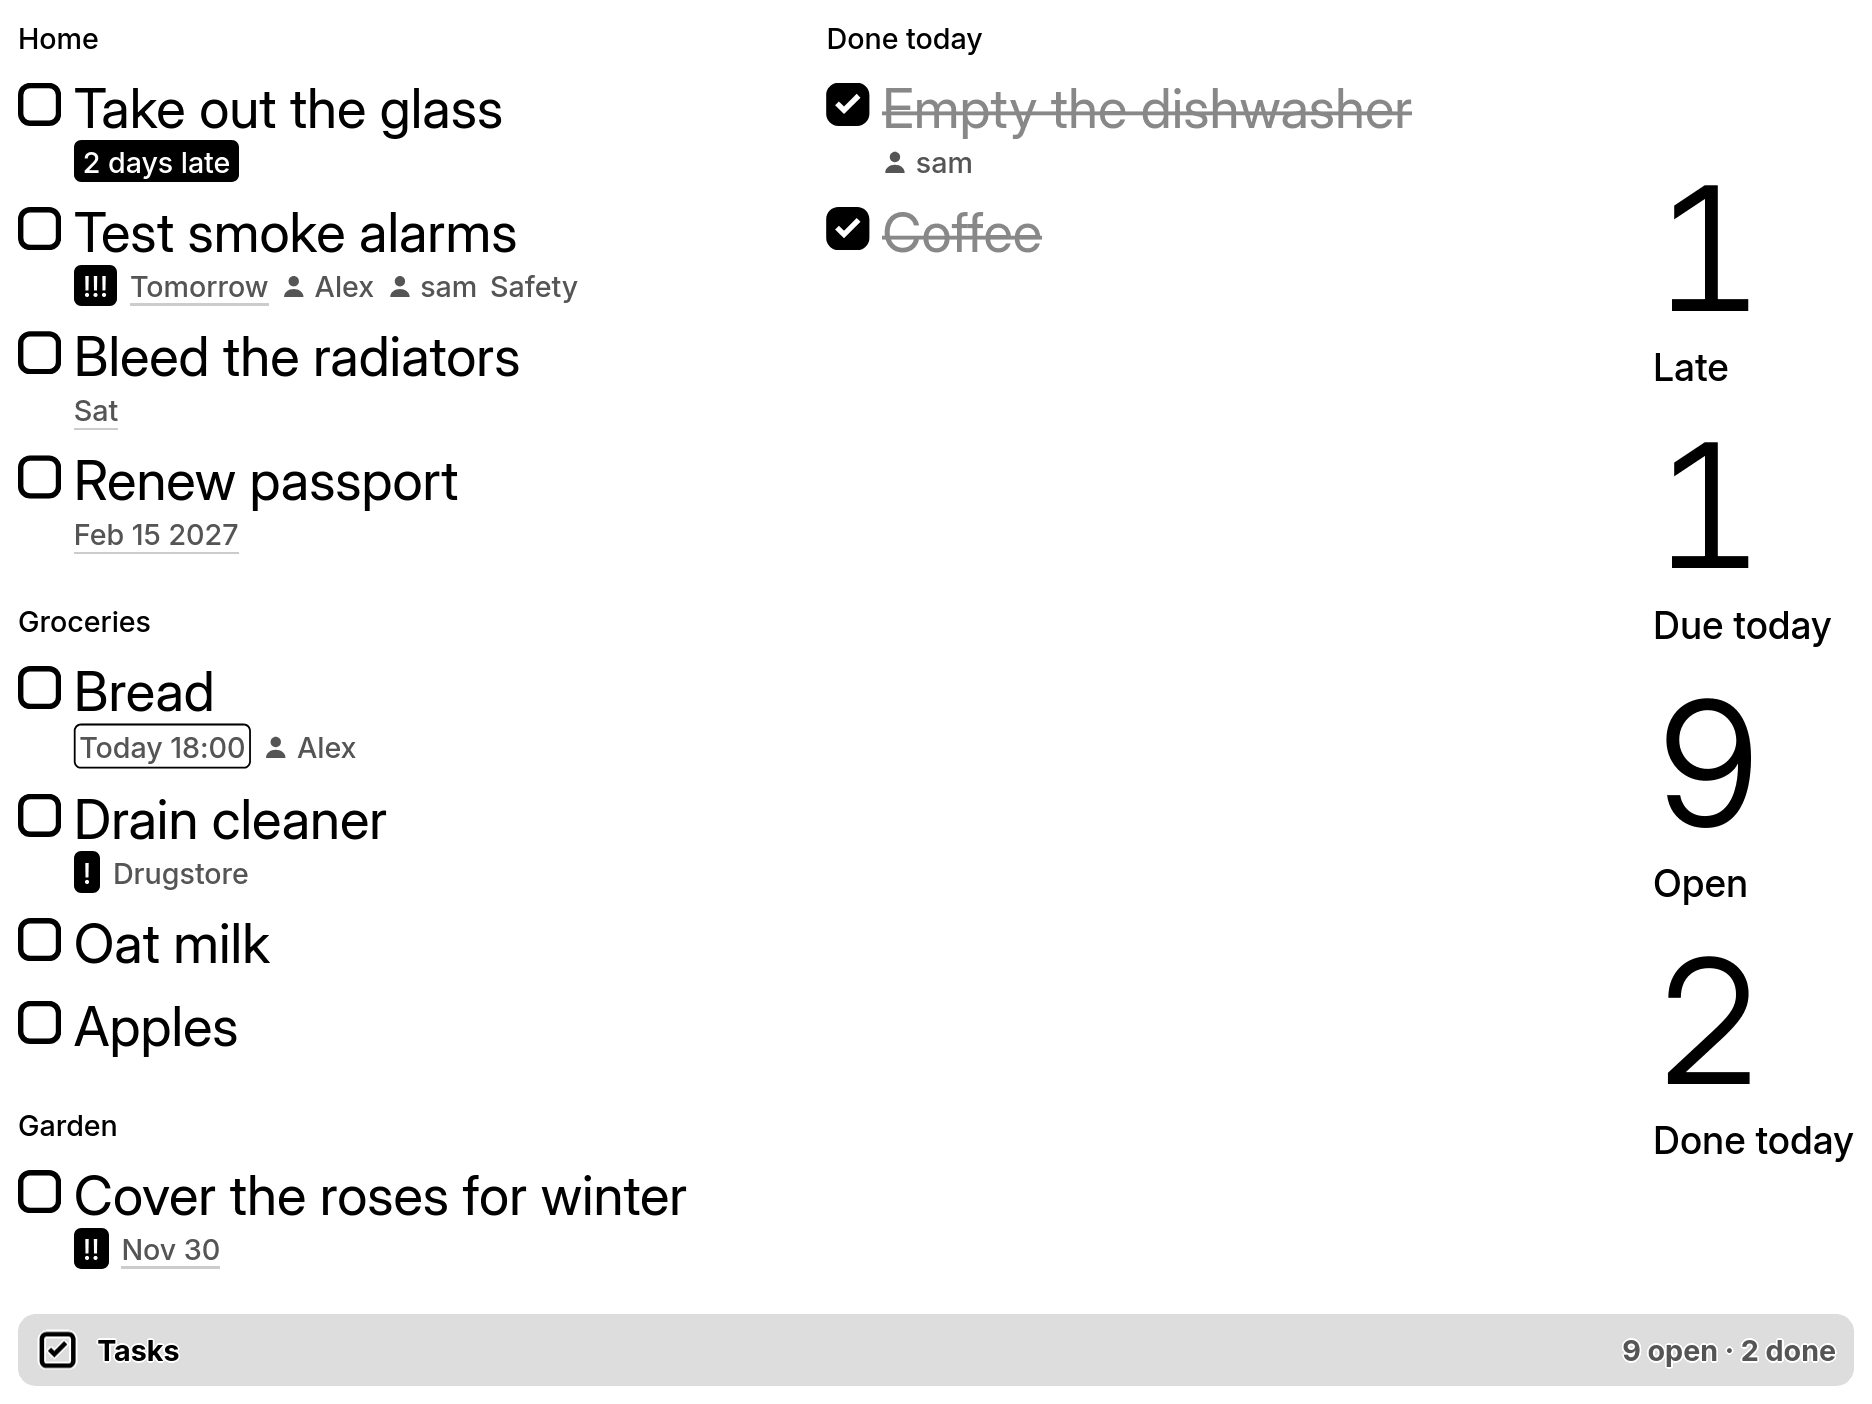
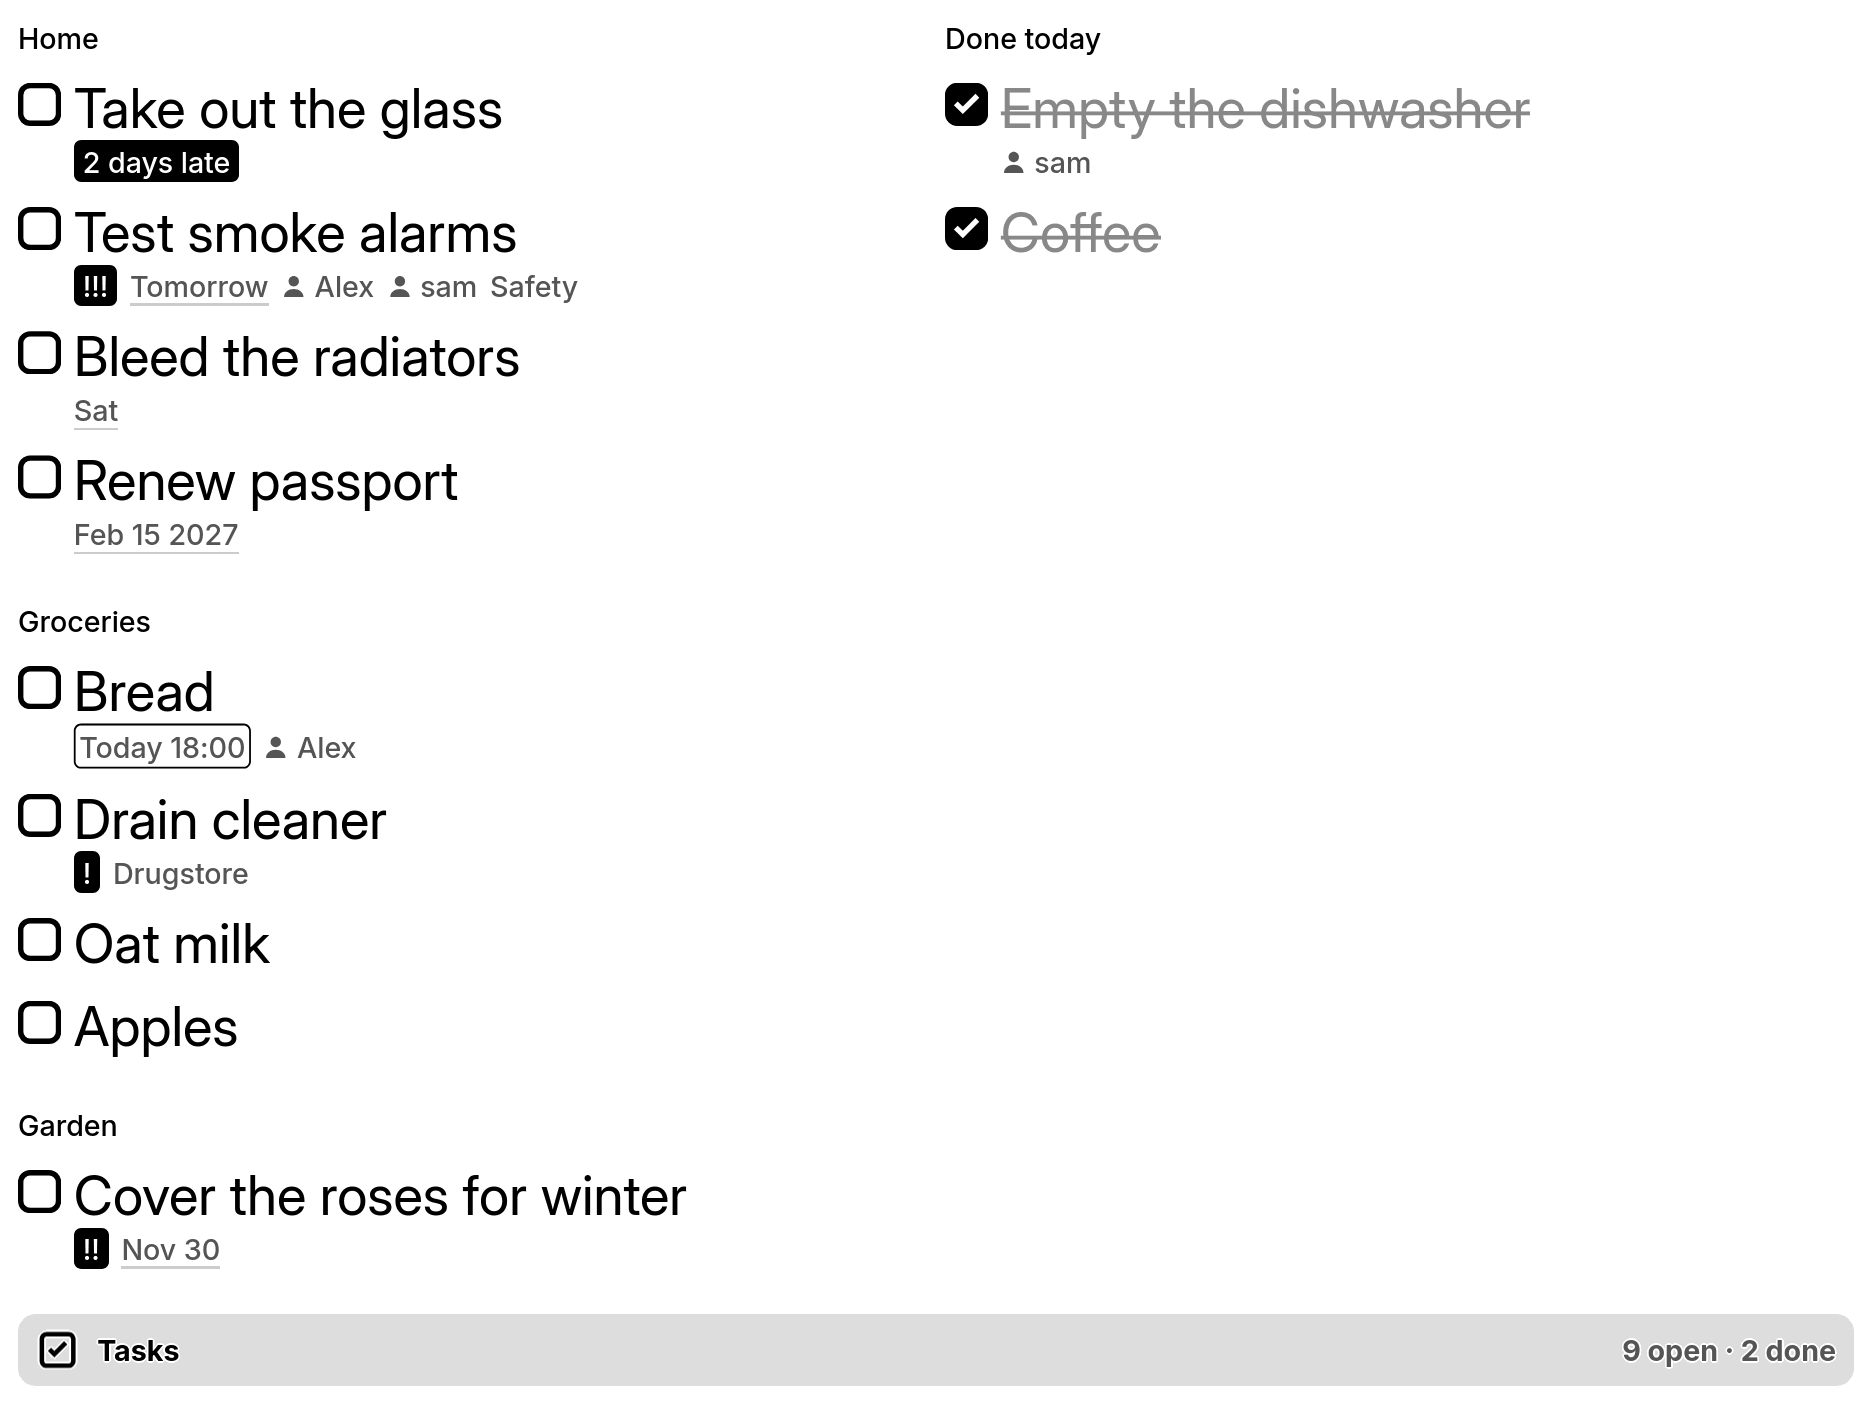
TRMNL X full: list across two columns instead of the counts

diff --git a/src/transform.py b/src/transform.py
@@ -19,7 +19,7 @@ WORDS = {
         "today": "Heute", "tomorrow": "Morgen", "yesterday": "Gestern", "overdue": "seit {n} Tagen",
         "weekdays": ["Mo", "Di", "Mi", "Do", "Fr", "Sa", "So"],
         "months": ["Jan.", "Feb.", "März", "Apr.", "Mai", "Juni", "Juli", "Aug.", "Sep.", "Okt.", "Nov.", "Dez."],
-        "done_group": "Heute erledigt", "late": "Überfällig", "due_today": "Heute fällig", "open": "Offen",
+        "done_group": "Heute erledigt",
         "done_title": "Alles erledigt", "done_text": "Keine offenen Aufgaben.",
         "focus_text": "Nichts fällig bis morgen.",
         "auth_title": "Token abgelehnt", "auth_text": "Vikunja hat das API-Token nicht angenommen. Token und Rechte (Tasks, Projects lesen) prüfen.",
@@ -42,7 +42,7 @@ WORDS = {
         "today": "Today", "tomorrow": "Tomorrow", "yesterday": "Yesterday", "overdue": "{n} days late",
         "weekdays": ["Mon", "Tue", "Wed", "Thu", "Fri", "Sat", "Sun"],
         "months": ["Jan", "Feb", "Mar", "Apr", "May", "Jun", "Jul", "Aug", "Sep", "Oct", "Nov", "Dec"],
-        "done_group": "Done today", "late": "Late", "due_today": "Due today", "open": "Open",
+        "done_group": "Done today",
         "done_title": "All done", "done_text": "No open tasks.",
         "focus_text": "Nothing due by tomorrow.",
         "auth_title": "Token rejected", "auth_text": "Vikunja did not accept the API token. Check the token and its rights (read Tasks and Projects).",
@@ -152,7 +152,7 @@ def rows(payload):
 
 def message(state, title, text, bar):
     return {"state": state, "title": bar, "instance": "", "message": {"title": title, "text": text},
-            "groups": [], "open": 0, "done": 0, "stats": []}
+            "groups": [], "open": 0, "done": 0}
 
 
 def simplify(t, opts):
@@ -220,13 +220,6 @@ def demo_tasks(w, now):
     return open_tasks, done_tasks, names
 
 
-def stats(open_tasks, done_count, today, tz, w):
-    """Big numbers for the spare room on TRMNL X: late, due today, open, done today."""
-    urgency = [due_label(d, today, tz, w, "en")[1] for d in (parse_time(t.get("due_date")) for t in open_tasks) if d]
-    return [{"n": urgency.count(2), "label": w["late"]}, {"n": urgency.count(1), "label": w["due_today"]},
-            {"n": len(open_tasks), "label": w["open"]}, {"n": done_count, "label": w["done_group"]}]
-
-
 def summary(w, open_count, done_count):
     text = w["open_n"].format(n=open_count)
     return text + (" · " + w["done_n"].format(n=done_count) if done_count else "")
@@ -256,7 +249,6 @@ def run(input):
         done_tasks = done_tasks if show_done else []
         return {"vk": {"state": "demo", "title": bar, "instance": w["demo"],
                        "open": len(open_tasks), "done": len(done_tasks), "message": None,
-                       "stats": stats(open_tasks, len(done_tasks), today, tz, w),
                        "groups": build_groups(open_tasks, done_tasks, names, True, today, opts)}}
 
     # One polled URL arrives at the top level, several as IDX_0.. ; TRMNL's own variables are not an answer.
@@ -302,7 +294,6 @@ def run(input):
         "instance": summary(w, len(open_tasks), len(done_tasks)),
         "open": len(open_tasks),
         "done": len(done_tasks),
-        "stats": stats(open_tasks, len(done_tasks), today, tz, w),
         "groups": build_groups(open_tasks, done_tasks, names, len(shown) > 1, today, opts),
         "message": None if count else {"title": w["done_title"], "text": empty_text},
     }}

diff --git a/tests/plugin_spec.rb b/tests/plugin_spec.rb
@@ -86,11 +86,6 @@ RSpec.describe 'Vikunja Tasks' do
                              'Apples' => ['', 0])
     end
 
-    it 'counts what is late, due today, open and done today for TRMNL X' do
-      expect(vk['stats'].map { it.values_at('label', 'n') })
-        .to eq([['Late', 1], ['Due today', 1], ['Open', 9], ['Done today', 2]])
-    end
-
     it 'marks priority 3 to 5 with one to three !' do
       prio = vk['groups'].flat_map { it['tasks'] }.to_h { [it['title'], it['prio']] }
       expect(prio.values_at('Drain cleaner', 'Cover the roses for winter', 'Test smoke alarms', 'Apples'))
